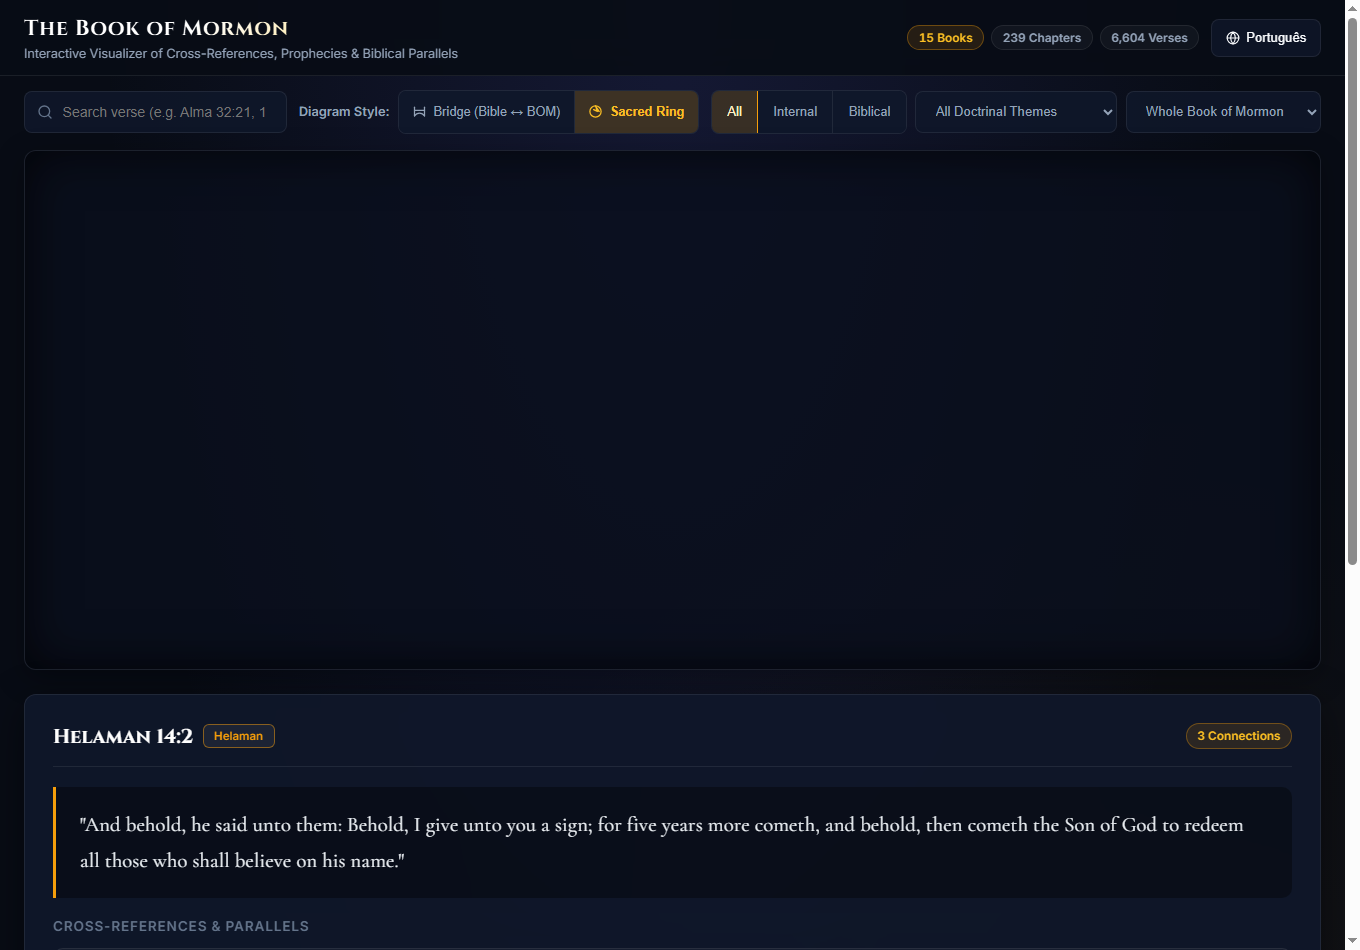
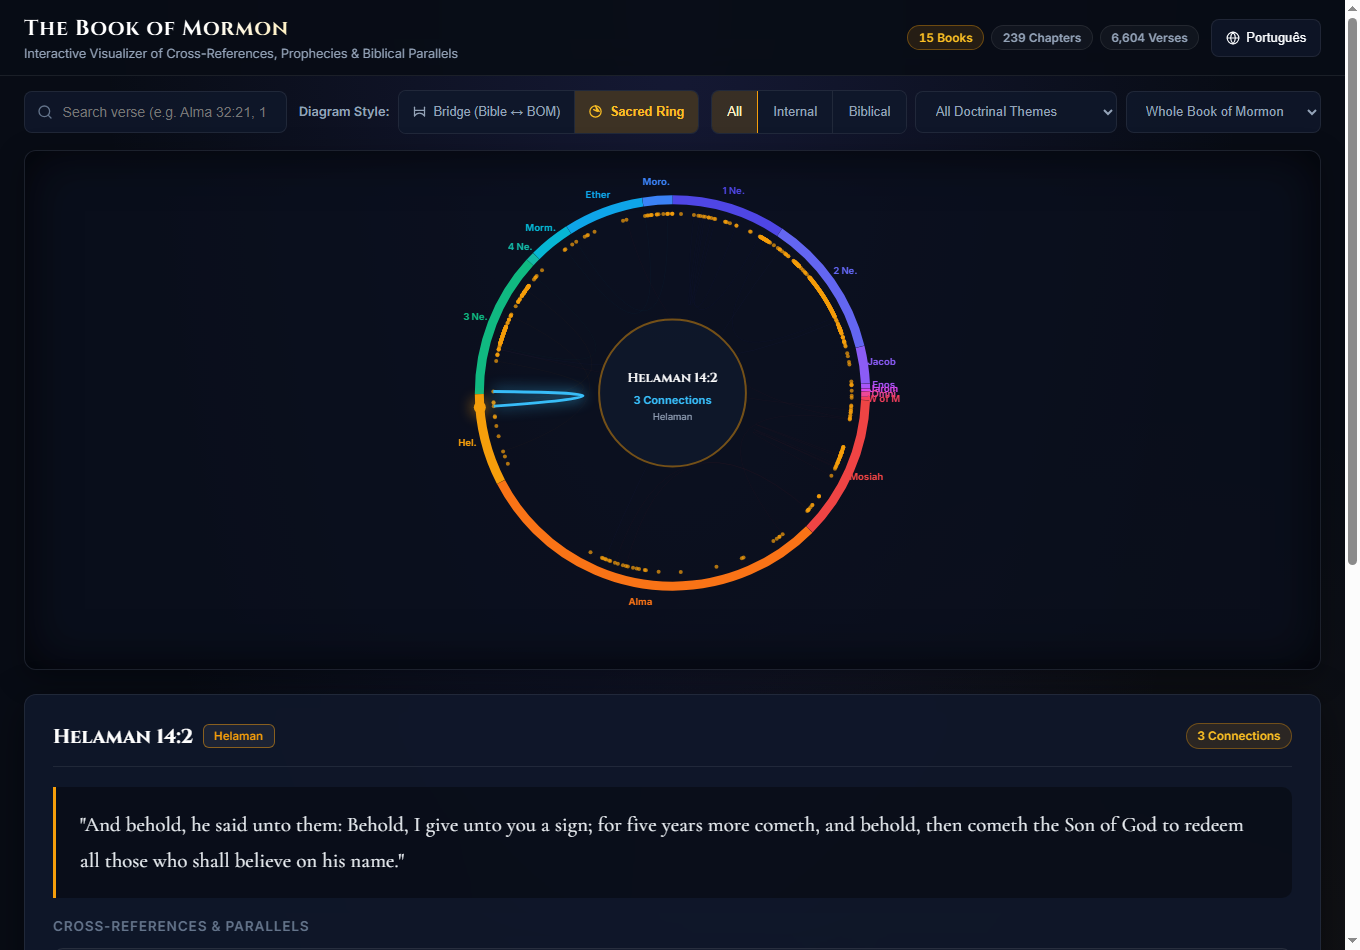
fix: render Sacred Ring correctly, update screenshot, and remove public deployment references from readme

diff --git a/src/main.js b/src/main.js
@@ -579,6 +579,15 @@ function drawRadialView() {
   const activeVerse = hoveredVerseId || selectedVerseId;
   const activeBook = getActiveBook();
 
+  function verseAngle(vId) {
+    if (activeBook) {
+      const span = Math.max(1, activeBook.endVerseId - activeBook.startVerseId);
+      const ratio = Math.max(0, Math.min(1, (vId - activeBook.startVerseId) / span));
+      return -Math.PI / 2 + ratio * (Math.PI * 2);
+    }
+    return -Math.PI / 2 + ((vId - 1) / 6603) * (Math.PI * 2);
+  }
+
   // 1. Draw Circumference Segments (Books or Chapters)
   if (activeBook) {
     activeBook.chaptersList.forEach(ch => {

diff --git a/README.md b/README.md
@@ -5,7 +5,6 @@ An interactive, high-performance web visualization exploring biblical cross-refe
 Inspired by Chris Harrison & Christoph Römhild's classic 2007 arc diagram and [trekhleb/bible-cross-references](https://github.com/trekhleb/bible-cross-references), redesigned from the ground up for modern web standards using Vanilla JavaScript, HTML5 Canvas 2D, and Swiss Modernist / Scholarly typography.
 
 [![License: MIT](https://img.shields.io/badge/License-MIT-amber.svg)](LICENSE)
-[![Deploy with Vercel](https://vercel.com/button)](https://vercel.com/new)
 
 ---
 
@@ -53,7 +52,7 @@ Inspired by Chris Harrison & Christoph Römhild's classic 2007 arc diagram and [
 - **Official Scripture Study Links:**
   - Direct contextual links to read every passage on [ChurchofJesusChrist.org](https://www.churchofjesuschrist.org/study/scriptures/bofm).
 - **100% Static & Free to Host:**
-  - Zero server requirements, 0 API dependencies, instant load times, 100% compatible with Vercel Hobby tier.
+  - Zero server requirements, 0 API dependencies, instant load times, 100% client-side static application.
 
 ---
 
@@ -91,14 +90,14 @@ Open [http://localhost:5173/](http://localhost:5173/) in your browser.
 
 ---
 
-## ☁ Deploy to Vercel (1-Click)
+## 🌐 Production Build & Deployment
 
-This repository includes a production-ready `vercel.json` configured with caching headers and build commands.
+Since this project is 100% static (HTML, CSS, Vanilla JS, and optimized JSON datasets), the output from `npm run build` generates a self-contained `dist/` directory that can be served from any static web server, CDN, or object storage bucket (such as GitHub Pages, Cloudflare Pages, Netlify, Nginx, or Apache).
 
-1. Push this repository to your GitHub account.
-2. Visit [vercel.com/new](https://vercel.com/new).
-3. Import this repository.
-4. Click **Deploy**. Vercel will deploy the static build in seconds at `*.vercel.app`.
+```bash
+npm run build
+# The compiled files in dist/ are ready for static hosting.
+```
 
 ---
 
